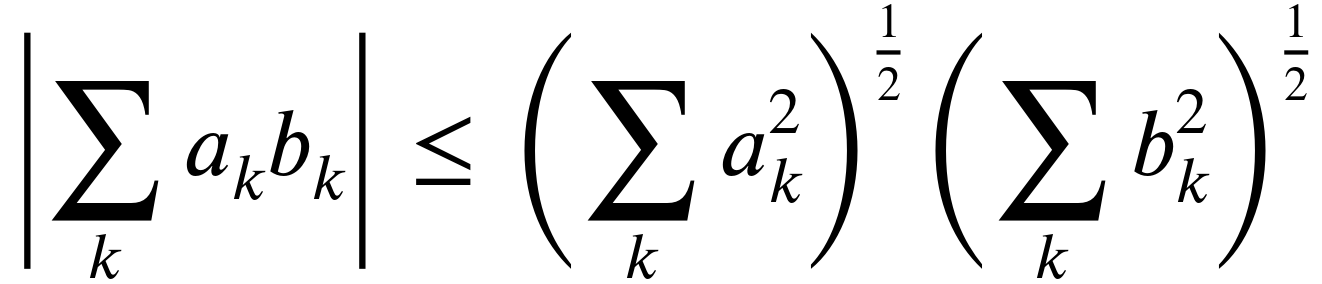
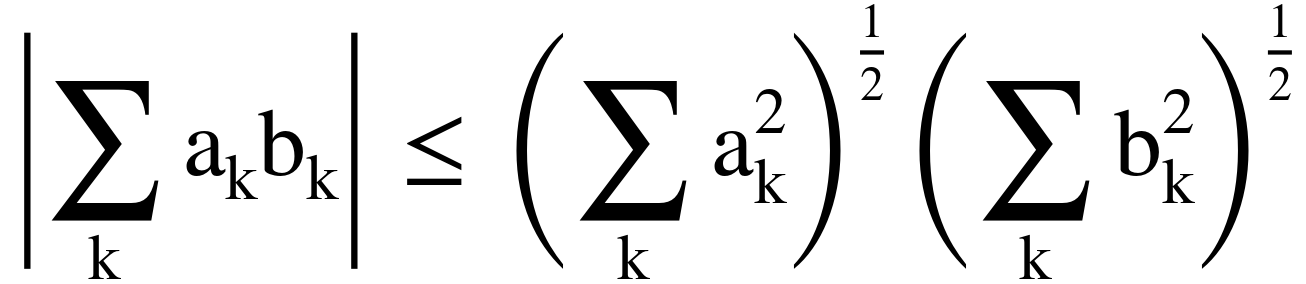
Update images

diff --git a/tests/font_selection.rs b/tests/font_selection.rs
@@ -16,7 +16,7 @@ const GREEK: &'static str =
      \\Lambda\\Mu\\Nu\\Pi\\Rho\\Sigma\\Tau\\Upsilon\\Phi\\Chi\\Psi\\Omega";
 const other: &'static str = "\\nabla\\partial";
 
-static styles: [&'static str; 13] = [
+static styles: [&'static str; 14] = [
     r"\mathrm",
     r"\mathbf",
     r"\mathit",
@@ -30,7 +30,7 @@ static styles: [&'static str; 13] = [
     r"\mathbf{\mathsf",
     r"\mathit{\mathsf",
     r"\mathbf{\mathit{\mathsf",
-   // r"\mathtt",
+    r"\mathtt",
 ];
 
 const HEADER: &'static str =
@@ -48,7 +48,7 @@ r##"<!DOCTYPE html>
 
 const END: &'static str = r"</body></html>";
 
-#[test]
+//#[test]
 fn font_styles_render() {
     let svg  = rex::SVGRenderer::new().font_src("rex-xits.woff2").font_size(32.0);
     let mut file = File::create("tests/out/font_styles.html")
